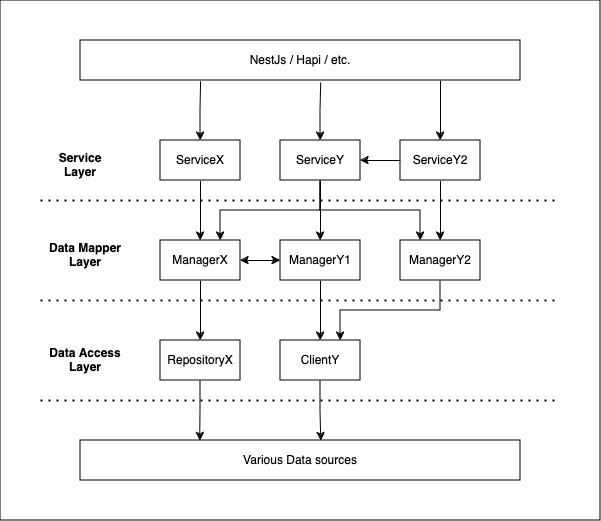
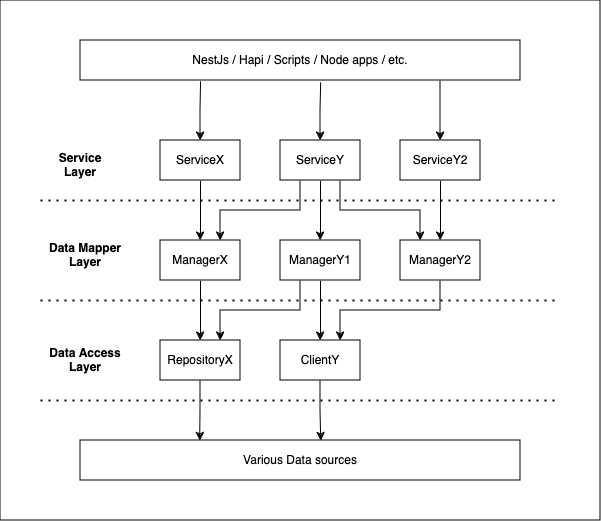
Added Guidelines section and updated diagram

diff --git a/docs/reference/style-guides/supplemental/software-architecture-implementation.md b/docs/reference/style-guides/supplemental/software-architecture-implementation.md
@@ -19,13 +19,32 @@ Before continuing in this document, please make sure to read and consume the fol
 * [Martin Fowler - Presentation Domain Data Layering](https://martinfowler.com/bliki/PresentationDomainDataLayering.html)
 * [Martin Fowler - Repository](https://martinfowler.com/eaaCatalog/repository.html)
 
-## Examples
+## Guidelines
 
-### Generic Diagram
+This section documents the guidelines that should be followed when adopting the layered architecture.
+
+Although these aren’t hard guidelines that can't be deviated from, breaking the guidelines does carry some risks. Therefore, it is  recommended that you take a second look at your implementation and consider if breaking the rules is necessary.
+
+### List of guidelines
+
+1. Layers may not be skipped
+2. Don't go up layers
+3. Services may depend on multiple managers
+4. Managers may not depend on other managers
+5. Managers may depend on multiple repositories or clients
+6. Clients may be dependents of multiple managers
+
+### Risks of deviating from the guidelines
+
+1. Circular dependencies may occur if multiple instance on a layer become dependent on each other
+
+### Diagram of Guidelines
 
 ![](../../../../static/diagrams/node-style-guide-layers.png)
 
-Where can I find some good examples of a Repository, Client, Manager, Service hierarchy?
+## Reference examples
+
+Some good examples of a Repository, Client, Manager, Service hierarchy are listed below.
 
 ### End to end - libs/payments/stripe/*
 
@@ -66,8 +85,8 @@ Where can I find some good examples of a Repository, Client, Manager, Service hi
 </details>
 
 <details>
-  <summary>Q: Will this only work with NestJs?</summary>
-  <div>Nope, can be used anywhere. Outside of NestJs, the Injectable decorator will be ignored, and the class can be instantiated as per normal.</div>
+  <summary>Q: Is this only relevant for NestJS implementations?</summary>
+  <div>Nope, this can be used anywhere. Dependency injection is strongly encouraged, but classes can also be imported just like any ol’POJO.</div>
 </details>
 
 <details>
@@ -104,7 +123,10 @@ Where can I find some good examples of a Repository, Client, Manager, Service hi
 
 <details>
   <summary>Q: Can my Manager call other Managers?</summary>
-  <div>Yes.</div>
+  <div>
+  <p>No. Only Services should call Managers.</p>
+  <p>Typically, if the feature requires you to import a manager from another manager, it’s a good tell that the feature you are busy implementing requires some other refactoring.</p>
+  </div>
 </details>
 
 <details>
